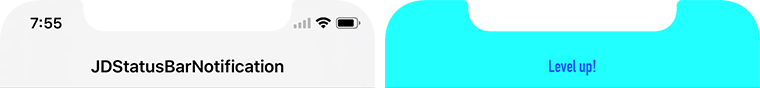
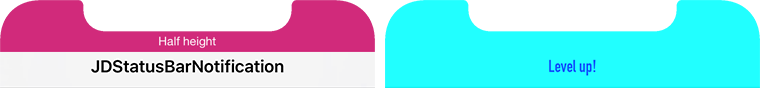
update iPhoneX docs

Changed region(s): [[0.0, 0.0, 0.5145, 0.5909]]

diff --git a/README.md b/README.md
@@ -1,6 +1,6 @@
 # JDStatusBarNotification
 
-Show messages on top of the status bar. Customizable colors, font and animation. Supports progress display and can show an activity indicator. iOS 7/8 ready. iOS6 support. Please open a [Github issue], if you think anything is missing or wrong.
+Show messages on top of the status bar. Customizable colors, font and animation. Supports progress display and can show an activity indicator. iOS 6+ support, iPhone X support. Please open a [Github issue], if you think anything is missing or wrong.
 
 ![Animation](gfx/animation.gif "Animation")
 
@@ -130,6 +130,11 @@ The `prepareBlock` gives you a copy of the default style, which can be modified 
 - `JDStatusBarProgressBarPositionTop`
 - `JDStatusBarProgressBarPositionBelow`
 - `JDStatusBarProgressBarPositionNavBar`
+
+#### iPhone X behavior
+
+- `JDStatusBarHeightForIPhoneXHalf`
+- `JDStatusBarHeightForIPhoneXFullNavBar`
 
 ## Twitter
 
